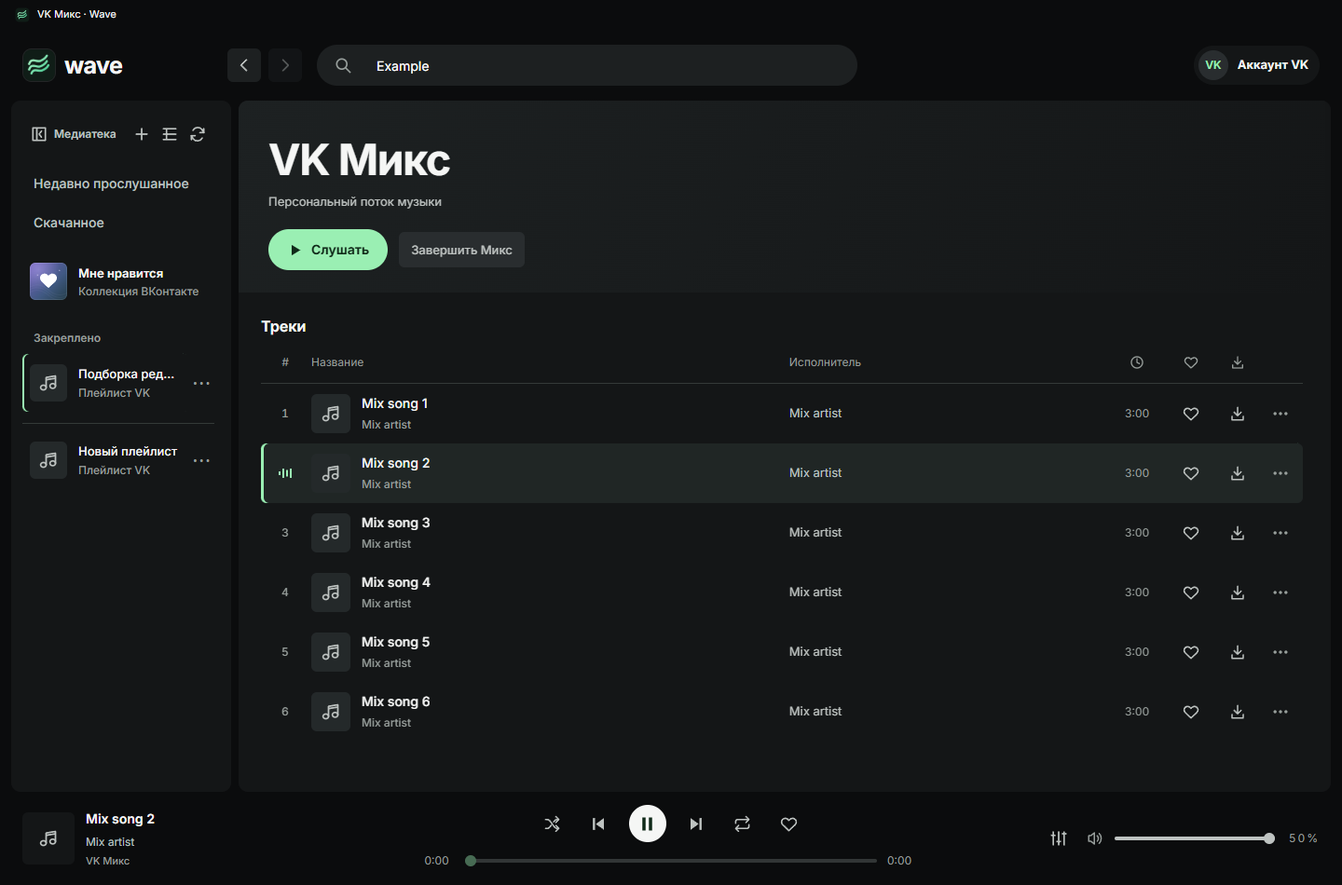
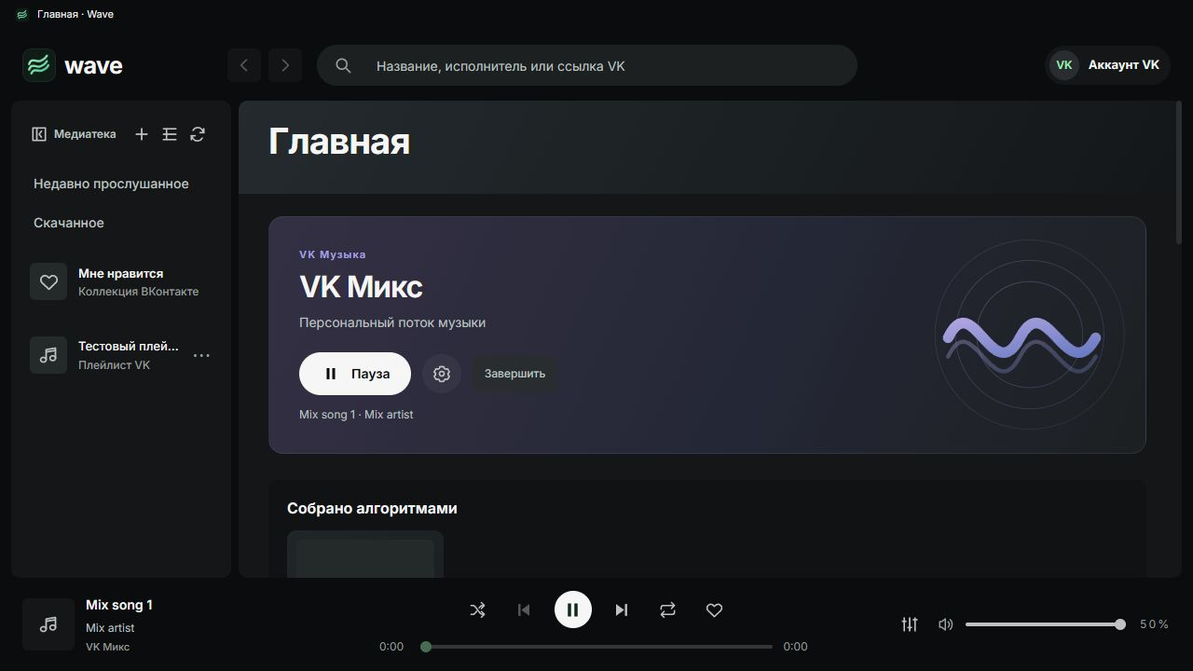
Prepare Alpha 2 with hidden live Mix, home card and server options

diff --git a/src/renderer/mix-ui.js b/src/renderer/mix-ui.js
@@ -1,20 +1,22 @@
 'use strict';
 (()=>{
  if(!has('mix'))return;
- const route={type:'mix',id:'common',title:'VK Микс'};
- const home=el('section','mix-home hidden'),title=el('h2','','VK Микс'),copy=el('p','muted','Персональный поток музыки из VK'),start=el('button','primary','Слушать');start.type='button';start.id='mix-start';home.append(title,copy,start);$('home-panels').before(home);
- const actions=el('div','mix-actions hidden'),status=el('p','muted'),retry=el('button','secondary hidden','Продолжить Микс'),stop=el('button','secondary','Завершить Микс');actions.id='mix-actions';status.setAttribute('role','status');retry.type=stop.type='button';stop.id='mix-stop';actions.append(status,retry,stop);document.querySelector('.hero-bottom').append(actions);
- const source=el('button','mix-source hidden','VK Микс');source.type='button';source.title='Открыть VK Микс';$('now-title').parentElement.append(source);source.onclick=()=>navigate(route).catch(fail);
- let job=null,lastPrefetch='',error='',opening=false,checkedKey='',checkedLoop;
- function render(){const on=state.route.type==='mix',active=!!state.playContext?.mixId;home.classList.toggle('hidden',state.route.type!=='home');actions.classList.toggle('hidden',!on);source.classList.toggle('hidden',!active);document.body.classList.toggle('mix-page',on);start.disabled=!state.online||opening;stop.disabled=!!state.mixStopped;stop.textContent=state.mixStopped?'Микс завершён':'Завершить Микс';retry.classList.toggle('hidden',!error||!on);retry.disabled=!!job||!state.online;setText(status,error||((state.loading||job)?'Загружаем музыку…':state.mixStopped?'':!state.partial&&state.allTracks.length?'Продолжение пока не найдено.':''));status.classList.toggle('hidden',!status.textContent);actions.setAttribute('aria-busy',String(!!job||state.loading));if(state.playing&&!state.busy)afterPlay();}
- async function open(){if(opening)return;opening=true;job=null;lastPrefetch='';checkedKey='';error='';render();try{await navigate({...route},true);if(state.route.type!=='mix'||!state.mixId)return;await playSelection(0);}finally{opening=false;render();}}
- start.onclick=()=>open().catch(fail);
- async function stopMix(){const id=state.mixId||state.playContext?.mixId;lastPrefetch='';error='';const result=await call('mix',{action:'stop',...(!state.loading&&id?{id}:{})});if(state.playContext?.mixId){state.playContext.cacheState='complete';state.pendingNext=false;if(state.playing)await toggle();state.playContext.mixId=null;state.playContext.source=undefined;}if(state.route.type==='mix'){state.mixStopped=true;state.partial=false;state.cacheState='complete';}render();controls();}
+ const home=el('section','mix-home'),art=el('img','mix-home-art'),body=el('div','mix-home-copy'),eyebrow=el('p','mix-eyebrow','VK Музыка'),title=el('h2','','VK Микс'),copy=el('p','mix-home-description','Персональный поток музыки'),actions=el('div','mix-home-actions'),start=el('button','mix-launch'),startIcon=el('span'),startLabel=el('span','','Включить Микс'),settingsButton=el('button','icon mix-settings-button'),stop=el('button','mix-stop secondary','Завершить'),status=el('p','mix-home-status'),current=el('p','mix-home-current');
+ home.id='mix-home';home.setAttribute('aria-labelledby','mix-home-title');title.id='mix-home-title';art.src='mix-mark.svg';art.alt='';art.setAttribute('aria-hidden','true');start.type=settingsButton.type=stop.type='button';start.id='mix-start';start.append(startIcon,startLabel);settingsButton.id='mix-settings-open';settingsButton.title='Настроить VK Микс';settingsButton.setAttribute('aria-label',settingsButton.title);settingsButton.setAttribute('aria-haspopup','dialog');setIcon(settingsButton,'settings');stop.id='mix-stop';actions.append(start,settingsButton,stop);status.setAttribute('role','status');body.append(eyebrow,title,copy,actions,current,status);home.append(body,art);
+ const source=el('button','mix-source hidden','VK Микс');source.type='button';source.title='Открыть управление Миксом';$('now-title').parentElement.append(source);source.onclick=async()=>{await navigate({type:'home'});home.scrollIntoView({block:'nearest',behavior:'instant'});start.focus({preventScroll:true});};
+ const popup=el('div','library-popover mix-settings'),popupTitle=el('h3','','Настройки Микса'),popupStatus=el('p','muted'),groups=el('div','mix-setting-groups'),buttons=el('div','mix-setting-buttons'),reset=el('button','secondary','Сбросить'),apply=el('button','primary','Применить');popup.id='mix-settings';popup.setAttribute('popover','auto');popup.setAttribute('role','dialog');popup.setAttribute('aria-labelledby','mix-settings-title');popupTitle.id='mix-settings-title';reset.type=apply.type='button';popupStatus.setAttribute('role','status');buttons.append(reset,apply);popup.append(popupTitle,popupStatus,groups,buttons);document.body.append(popup);
+ const artistButton=el('button','secondary hidden','Микс по исполнителю');artistButton.type='button';artistButton.id='artist-mix';document.querySelector('.hero-bottom').append(artistButton);artistButton.onclick=()=>open({seed:{type:'artist',...(state.route.artistEntity?{entityId:state.route.id}:{trackId:state.route.id,artistIndex:state.route.artistIndex||0})},options:{}}).catch(fail);
+ let job=null,lastPrefetch='',error='',opening=false,checkedKey='',checkedLoop,epoch=0,configuration,selection={},draft={},settingsEpoch=0;
+ function render(){artistButton.classList.toggle('hidden',state.route.type!=='artist');artistButton.disabled=!state.online||state.loading||opening;const active=!!state.playContext?.mixId;document.body.classList.toggle('mix-live',active);source.classList.toggle('hidden',!active);source.textContent=state.playContext?.source||'VK Микс';start.disabled=!state.online||opening;start.setAttribute('aria-busy',String(opening));setText(startLabel,opening?'Подключаем…':active?(state.playing?'Пауза':'Продолжить'):'Включить Микс');setIcon(startIcon,active&&state.playing?'pause':'play');stop.classList.toggle('hidden',!active&&!opening);stop.disabled=!active&&!opening;settingsButton.disabled=!state.online||opening;home.classList.toggle('is-playing',active&&state.playing);setText(current,active?state.current?.title+' · '+state.current?.artist:'');setText(status,error);status.classList.toggle('hidden',!status.textContent);if(state.route.type==='home'&&home.parentElement!==$('home-panels'))$('home-panels').prepend(home);if(state.playing&&!state.busy)afterPlay();}
+ async function open({seed,options=selection}={}){const ticket=++epoch,generation=state.generation;opening=true;job=null;lastPrefetch='';checkedKey='';error='';render();try{const result=await call('mix',{action:'open',restart:true,...(seed?{seed}:{}),...(!seed&&Object.keys(options).length?{options}:{})});if(ticket!==epoch||generation!==state.generation)return;if(!result.tracks?.length)throw Error('VK пока не нашёл музыку для этого Микса');const loop=result.tracks.map((t,i)=>({...t,contextOrder:i})),ctx={mixId:result.mixId,mixSeed:seed,source:result.source||'VK Микс',cacheState:result.partial?'loading':'complete',filter:'',sort:'original',routeKey:'mix-live'};await playTrack(loop[0],{loop,playContext:ctx});}catch(e){if(ticket===epoch&&e.kind!=='cancelled'){error=e.message||'Не удалось включить Микс';render();throw e;}}finally{if(ticket===epoch){opening=false;render();}}}
+ start.onclick=()=>{if(state.playContext?.mixId)return toggle().catch(fail);open().catch(fail);};
+ async function stopMix(){epoch++;opening=false;lastPrefetch='';error='';const ctx=state.playContext;await call('mix',{action:'stop'});if(ctx?.mixId&&state.playContext===ctx){ctx.cacheState='complete';state.pendingNext=false;if(state.playing)await toggle();ctx.mixId=null;ctx.source=undefined;}render();controls();}
  stop.onclick=()=>stopMix().catch(fail);
- async function more(ctx=state.playContext){if(!ctx?.mixId||!state.online||ctx.cacheState==='complete')return;if(job)return job;const id=ctx.mixId;error='';ctx.advancing=true;
-  const task=(async()=>{try{let result;for(let tries=0;tries<3;tries++){result=await call('mix',{action:'more',id,currentId:state.current?.id});if(state.playContext!==ctx||ctx.mixId!==id)return;if(result.tracks.some(t=>!state.loop.some(old=>old.id===t.id))||!result.partial)break;}if(state.playContext!==ctx)return;const pending=state.pendingNext;state.pendingNext=false;updatePlaybackCache(result);if(state.route.type==='mix'&&state.mixId===id){state.allTracks=result.tracks;state.partial=result.partial;trackList();}state.history=state.history.slice(-60);if(pending)await next(state.pendingNextEnded);}catch(e){if(state.playContext===ctx){state.pendingNext=false;if(e.kind!=='cancelled'){error='Не удалось загрузить продолжение. Попробуйте ещё раз.';window.WaveToast?.show?.(error);}}}finally{ctx.advancing=false;if(job===task)job=null;render();controls();}})();job=task;render();return task;
- }
- retry.onclick=()=>{lastPrefetch='';checkedKey='';more().catch(fail);};
+ async function more(ctx=state.playContext){if(!ctx?.mixId||!state.online||ctx.cacheState==='complete')return;if(job)return job;const id=ctx.mixId;error='';ctx.advancing=true;const task=(async()=>{try{let result;for(let tries=0;tries<3;tries++){result=await call('mix',{action:'more',id,currentId:state.current?.id});if(state.playContext!==ctx||ctx.mixId!==id)return;if(result.tracks.some(t=>!state.loop.some(old=>old.id===t.id))||!result.partial)break;}if(state.playContext!==ctx)return;const pending=state.pendingNext;state.pendingNext=false;updatePlaybackCache(result);state.history=state.history.slice(-60);if(pending)await next(state.pendingNextEnded);}catch(e){if(state.playContext===ctx){state.pendingNext=false;if(e.kind!=='cancelled'){error='Продолжение недоступно. Нажмите «Далее», чтобы повторить.';window.WaveToast?.show?.(error);}}}finally{ctx.advancing=false;if(job===task)job=null;render();controls();}})();job=task;render();return task;}
  function afterPlay(){const ctx=state.playContext;if(!ctx?.mixId||!state.online||ctx.cacheState==='complete')return;const key=ctx.mixId+':'+state.current?.id;if(checkedKey===key&&checkedLoop===state.loop)return;checkedKey=key;checkedLoop=state.loop;const at=state.loop.findIndex(t=>t.id===state.current?.id),ahead=state.loop.slice(at+1).filter(playableNow).length;if(ahead<=1&&lastPrefetch!==key){lastPrefetch=key;queueMicrotask(()=>more(ctx));}}
- window.WaveMix={render,more,afterPlay,start:open,header(){if(state.route.type!=='mix')return false;heroCover();renderAlbums();setText($('heading'),'VK Микс');setText($('eyebrow'),'');setText($('subtitle'),'Персональный поток музыки');setText($('list-heading'),'Треки');playlists();render();return true;}};render();
+ function drawSettings(){groups.replaceChildren();for(const category of configuration?.categories||[]){const section=el('section','mix-setting-group'),heading=el('h4','',category.title),items=el('div','mix-setting-options');items.setAttribute('role','group');items.setAttribute('aria-label',category.title);section.append(heading,items);for(const option of category.options){const button=el('button','mix-setting-option',option.title);button.type='button';button.setAttribute('aria-pressed',String(draft[category.id]===option.id));button.onclick=()=>{if(draft[category.id]===option.id)delete draft[category.id];else draft[category.id]=option.id;for(const b of items.children)b.setAttribute('aria-pressed',String(b===button&&draft[category.id]===option.id));};items.append(button);}groups.append(section);}apply.disabled=!configuration?.categories?.length;}
+ function position(){const a=settingsButton.getBoundingClientRect(),r=popup.getBoundingClientRect();popup.style.inset='auto';popup.style.left=Math.max(12,Math.min(innerWidth-r.width-12,a.right-r.width))+'px';popup.style.top=Math.max(12,Math.min(innerHeight-r.height-12,a.bottom+8))+'px';}
+ settingsButton.onclick=async()=>{const ticket=++settingsEpoch;draft={...selection};popup.showPopover();settingsButton.setAttribute('aria-expanded','true');setText(popupStatus,'Загружаем настройки…');drawSettings();position();try{configuration=await call('mix',{action:'settings'});if(ticket!==settingsEpoch||!popup.matches(':popover-open'))return;setText(popupStatus,configuration.categories.length?'':'VK не предоставил настройки');drawSettings();position();groups.querySelector('button')?.focus({preventScroll:true});}catch(e){setText(popupStatus,'Не удалось загрузить настройки. Откройте их ещё раз.');}};
+ popup.addEventListener('toggle',e=>{if(e.newState==='closed'){settingsEpoch++;settingsButton.setAttribute('aria-expanded','false');}});popup.addEventListener('keydown',e=>{if(e.key==='Escape'){e.preventDefault();popup.hidePopover();settingsButton.focus();}});reset.onclick=()=>{draft={};drawSettings();};apply.onclick=()=>{selection={...draft};popup.hidePopover();start.focus({preventScroll:true});open({options:selection}).catch(fail);};
+ window.WaveMix={homeNode:home,render,more,afterPlay,start:open,track:id=>open({seed:{type:'track',trackId:id},options:{}}),artist:(trackId,artistIndex=0,entityId)=>open({seed:{type:'artist',...(entityId?{entityId}:{trackId,artistIndex})},options:{}}),header:()=>false};render();
 })();

diff --git a/src/renderer/mix.css b/src/renderer/mix.css
@@ -1,6 +1,7 @@
-.mix-home{display:grid;grid-template-columns:1fr auto;column-gap:24px;row-gap:8px;padding:24px 28px;margin:0 24px 24px;border-radius:12px;background:linear-gradient(115deg,var(--bg-raised),var(--bg-surface));border:1px solid var(--border-subtle)}
-.mix-home h2{margin:0}.mix-home p{margin:0}.mix-home .primary{grid-column:2;grid-row:1/3;align-self:center}.mix-actions{display:flex;align-items:center;gap:12px;flex-wrap:wrap}.mix-actions p{margin:0;max-width:48ch}.mix-source{display:block;border:0;background:none;padding:2px 0;font-size:11px;color:var(--text-muted);text-align:left}.mix-source:hover{color:var(--text-primary)}
-.mix-page .list-tools,.mix-page #personal-pin,.mix-page #copy-list-link,.mix-page #rename-list{display:none!important}.mix-page .hero{background:linear-gradient(120deg,var(--bg-hero),var(--bg-surface))}.mix-page .hero-bottom{flex-wrap:wrap}
-@media(max-width:650px){.mix-home{margin-inline:12px;padding:20px}.mix-actions{align-items:flex-start}.mix-actions p{flex-basis:100%}}
-@media(prefers-reduced-motion:no-preference){.mix-home .primary:not(:disabled){transition:transform 150ms ease-out}.mix-home .primary:not(:disabled):active{transform:scale(.96)}}
-@media(forced-colors:active){.mix-home,.mix-page .hero{background:Canvas}.mix-home{border:1px solid CanvasText}}
+.mix-home{--mix-tone:#a9a0e5;position:relative;isolation:isolate;overflow:hidden;display:flex;align-items:center;min-width:0;min-height:232px;margin:0;padding:32px;border-radius:16px;background:linear-gradient(115deg,#343044 0%,#242735 58%,var(--bg-raised) 100%);border:1px solid #c1b1ff19}
+.mix-home-copy{position:relative;z-index:1;min-width:0;max-width:72%;flex:1}.mix-eyebrow{color:var(--mix-tone);font-size:11px;font-weight:650;letter-spacing:.1em;margin:0 0 8px}.mix-home h2{font-size:32px;letter-spacing:-.035em;line-height:1.1;margin:0 0 10px}.mix-home-description{color:var(--text-secondary);margin:0}.mix-home-actions{display:flex;align-items:center;flex-wrap:wrap;gap:12px;margin-top:22px}.mix-launch{display:inline-flex;align-items:center;justify-content:center;gap:10px;min-height:46px;border:0;border-radius:24px;padding:0 22px;background:var(--text-primary);color:var(--bg-page);font-weight:650;font-size:14px;cursor:pointer}.mix-launch .wave-icon{width:18px;height:18px}.mix-launch:disabled{opacity:.55;cursor:default}.mix-settings-button{background:#ffffff0b;border-radius:50%;width:42px;height:42px;flex:none}.mix-settings-button:hover{background:#ffffff16}.mix-stop{font-size:12px}.mix-home-art{border:0;outline:0;box-shadow:none;border-radius:0;position:absolute;z-index:0;pointer-events:none;inset-inline-end:0;top:50%;width:280px;height:245px;transform:translateY(-50%);opacity:.85}.mix-home-current{min-height:18px;margin:12px 0 0;color:var(--text-secondary);font-size:12px;overflow:hidden;text-overflow:ellipsis;white-space:nowrap;max-width:50ch}.mix-home-status{margin:12px 0 0;color:var(--text-muted);font-size:12px;max-width:45ch}.mix-source{max-width:100%;overflow:hidden;text-overflow:ellipsis;white-space:nowrap;display:block;border:0;background:none;padding:2px 0;font-size:11px;color:var(--text-muted);text-align:start}.mix-source:hover{color:var(--text-primary)}
+.mix-settings{width:min(430px,calc(100vw - 24px));max-height:min(620px,calc(100vh - 32px));overflow:auto;padding:20px}.mix-settings h3{margin:0 0 16px}.mix-settings h4{margin:0 0 10px;font-size:12px;color:var(--text-secondary)}.mix-setting-groups{display:grid;gap:20px}.mix-setting-options{display:flex;flex-wrap:wrap;gap:8px}.mix-setting-option{border:1px solid var(--border-subtle);border-radius:20px;min-height:36px;background:var(--bg-input);color:var(--text-secondary);padding:6px 12px}.mix-setting-option[aria-pressed=true]{border-color:var(--text-accent);background:var(--bg-accent-soft);color:var(--text-primary)}.mix-setting-buttons{display:flex;justify-content:flex-end;gap:10px;margin-top:22px}.mix-settings p:empty{display:none}
+@media(max-width:850px){.mix-home{padding:24px}.mix-home-copy{max-width:80%}.mix-home-art{width:210px;inset-inline-end:-50px;opacity:.4}}@media(max-width:480px){.mix-home{min-height:220px;padding:22px 18px}.mix-home-copy{max-width:100%}.mix-home h2{font-size:28px}.mix-home-art{opacity:.18;inset-inline-end:-80px}.mix-launch{padding-inline:16px}.mix-home-actions{gap:8px}}
+@media(prefers-reduced-motion:no-preference){.mix-launch{transition:transform 150ms ease-out,background-color 150ms ease-out}.mix-launch:not(:disabled):active{transform:scale(.96)}.mix-setting-option{transition:background-color 120ms ease-out,border-color 120ms ease-out}}@media(forced-colors:active){.mix-home{background:Canvas;border:1px solid CanvasText}.mix-home-art{display:none}.mix-launch,.mix-setting-option{border:1px solid ButtonText;background:ButtonFace;color:ButtonText}.mix-setting-option[aria-pressed=true]{outline:2px solid Highlight}.mix-settings-button{background:ButtonFace}}
+
+.mix-stop.hidden{display:inline-block!important;visibility:hidden;pointer-events:none}

diff --git a/src/renderer/ui-polish.js b/src/renderer/ui-polish.js
@@ -8,6 +8,6 @@
  if(!document.getElementById('settings-dialog'))return;
  const section=document.createElement('section');section.className='shortcut-settings';section.innerHTML='<h3>Управление с клавиатуры</h3><p class="muted">Нажмите F1, чтобы открыть список сочетаний.</p><button id="shortcuts-open" class="secondary">Горячие клавиши</button>';document.querySelector('#settings-dialog .modal-card').append(section);
  const dialog=document.createElement('dialog');dialog.id='shortcuts-dialog';dialog.className='modal-overlay hidden';dialog.setAttribute('aria-labelledby','shortcuts-heading');dialog.innerHTML='<section class="modal-card"><div class="section-head"><h2 id="shortcuts-heading">Горячие клавиши</h2><button id="shortcuts-close" class="secondary">Закрыть</button></div><dl class="shortcuts-list"><div><dt>Поиск музыки</dt><dd><kbd>Ctrl</kbd> <kbd>K</kbd></dd></div><div><dt>Воспроизведение / пауза</dt><dd><kbd>Пробел</kbd></dd></div><div><dt>Назад / вперёд</dt><dd><kbd>Alt</kbd> <kbd>←</kbd> / <kbd>→</kbd></dd></div><div><dt>Переход между песнями списка</dt><dd><kbd>↑</kbd> <kbd>↓</kbd></dd></div><div><dt>Начало / конец списка</dt><dd><kbd>Home</kbd> <kbd>End</kbd></dd></div><div><dt>Закрыть окно</dt><dd><kbd>Esc</kbd></dd></div></dl><p class="muted">Пробел ставит музыку на паузу и продолжает её после клика мышью. При навигации через Tab он нажимает выбранную кнопку. В полях ввода и на ползунках сохраняется обычное поведение клавиатуры. Ctrl+K работает также в русской раскладке и закрывает справку, настройки или развёрнутый плеер перед переходом в поиск. Левый Shift + левая кнопка мыши добавляет песню в выделение или снимает его. Ctrl+A выбирает все песни текущего списка, кроме поля ввода. Ctrl+Space переключает выделение песни с клавиатуры, Shift+F10 открывает меню выбранных, Escape снимает выделение. В «Скачанном» выделение отключено. Стрелки, Home и End работают при фокусе на названии или кнопке запуска песни. Боковые кнопки мыши — назад и вперёд. Мультимедийные клавиши работают через Windows.</p></section>';document.body.append(dialog);
- const about=document.createElement('footer');about.className='settings-about';about.innerHTML='<span>Wave</span><span id="settings-version">Версия 1.2.0-alpha.1</span>';document.querySelector('#settings-dialog .modal-card').append(about);
+ const about=document.createElement('footer');about.className='settings-about';about.innerHTML='<span>Wave</span><span id="settings-version">Версия 1.2.0-alpha.2</span>';document.querySelector('#settings-dialog .modal-card').append(about);
  document.getElementById('shortcuts-open').onclick=()=>dialog.classList.remove('hidden');document.getElementById('shortcuts-close').onclick=()=>dialog.classList.add('hidden');
 })();

diff --git a/src/renderer/app.js b/src/renderer/app.js
@@ -227,6 +227,7 @@ function saveView(){window.WaveArtistUI?.remember();if(!state.ready||state.loadi
 function navigationButtons(){$('nav-back').disabled=navigation.index<=0;$('nav-forward').disabled=navigation.index<0||navigation.index>=navigation.entries.length-1;}
 function navigationReset(){navigation.entries=[];navigation.index=-1;navigation.views.clear();navigation.snapshots.clear();persistViews();state.filter='';state.sort='original';state.albums=[];state.contributions=[];navigationButtons();}
 async function navigate(route,refresh=false,preserve=false,traveling=false){
+ if(route.type==='mix')route={type:'home'};
  window.WavePlaylistControls?.resetSearch();window.WaveMusicLinks?.cancel();
  if(!state.ready)return loadRoute(route,refresh,preserve);
  saveView();const key=routeKey(route),saved=navigation.views.get(key),snapshot=navigation.snapshots.get(key);
@@ -328,7 +329,7 @@ function trackActions(track,anchor){
  if(window.WaveCollection?.menu(track,anchor))return;
  const root=window.WaveRowMenu?window.WaveRowMenu.open(track,anchor):(collectionDialog(track.title),$('collection-options'));const action=(label,fn)=>{const b=el('button','collection-action',label);b.type='button';b.setAttribute('role','menuitem');b.onclick=()=>{window.WaveRowMenu?.close();fn();};root.append(b);};
  const remove=(title,help,action,command)=>{collectionDialog(title);$('collection-help').textContent=help;$('collection-confirm').classList.toggle('hidden',false);$('collection-confirm').classList.toggle('danger-action',true);$('collection-confirm').textContent=action;$('collection-confirm').onclick=()=>synchronise(command);};
- action('Скопировать ссылку',()=>window.WaveMusicLinks?.copy('track',track.id));
+ action('Скопировать ссылку',()=>window.WaveMusicLinks?.copy('track',track.id));if(window.WaveMix){action('Микс по песне',()=>WaveMix.track(track.id).catch(fail));if(track.artistRoute?.includes('/artist/'))action('Микс по исполнителю',()=>WaveMix.artist(track.id).catch(fail));}
  action('Добавить в плейлист…',()=>addToPlaylist(track));
  if(ownPlaylist()){action('Удалить из этого плейлиста',()=>remove('Удалить песню из плейлиста?','«'+track.title+'» будет удалена только из этого плейлиста.','Удалить из плейлиста',{action:'remove',playlistId:state.route.id,trackId:track.id}));
   if(state.cacheState==='complete'&&!state.filter&&(!state.sort||state.sort==='original'))action('Переместить на позицию…',()=>{const tracks=state.allTracks.slice(),id=state.route.id;collectionForm('Порядок песен','Позиция от 1 до '+tracks.length,String(tracks.findIndex(t=>t.id===track.id)+1),value=>{const index=Number(value)-1;if(!Number.isInteger(index)||index<0||index>=tracks.length){$('collection-help').textContent='Введите целую позицию от 1 до '+tracks.length;return;}const others=tracks.filter(t=>t.id!==track.id);synchronise({action:'move',playlistId:id,trackId:track.id,beforeTrackId:others[index]?.id||null});},{number:true,max:tracks.length});});

diff --git a/src/renderer/home-feed-ui.js b/src/renderer/home-feed-ui.js
@@ -7,7 +7,7 @@
   root.setAttribute('aria-busy',String(feed.state==='loading'||!!feed.refreshing));
   setText(view.status,feed.state==='loading'?'Загружаем подборки VK…':feed.stale?'Не удалось обновить. Показаны сохранённые подборки.':feed.state==='ready'&&feed.partial?'Часть подборок VK сейчас недоступна':feed.state==='unavailable'?(state.online?(feed.reason==='empty'?'Подборки VK пока не найдены.':feed.reason==='schema'?'Не удалось прочитать подборки VK.':'Не удалось загрузить подборки VK.'):'Подключитесь к сети, чтобы загрузить подборки VK'):'');
   view.status.classList.toggle('hidden',!view.status.textContent);view.retry.classList.toggle('hidden',!state.online||!(feed.state==='unavailable'||feed.partial||feed.stale));view.retry.disabled=!!feed.refreshing;view.retry.setAttribute('aria-busy',String(!!feed.refreshing));view.retry.onclick=retry;
-  const desired=[view.status,view.retry],alive=new Set(),active=document.activeElement;
+  const desired=[...(window.WaveMix?.homeNode?[WaveMix.homeNode]:[]),view.status,view.retry],alive=new Set(),active=document.activeElement;
   for(const section of sections){if(!section.items?.length)continue;alive.add(section.id);let group=view.groups.get(section.id);
    if(!group){group={node:el('section','recommendation-section'),heading:el('h2'),grid:el('div','home-grid'),cards:new Map(),data:{},fresh:true};group.node.dataset.feed=section.id;group.node.append(group.heading,group.grid);view.groups.set(section.id,group);}
    Object.assign(group.data,section);setText(group.heading,section.title);const cards=[],items=new Set();

diff --git a/src/renderer/collection-tools.js b/src/renderer/collection-tools.js
@@ -45,7 +45,7 @@
   const root=window.WaveRowMenu.open(track,anchor),ids=selection.ids(inView()),blocked=!state.online||state.collectionBusy||!!phase;
   const caption=el('p','selection-menu-caption','Выбрано: '+ids.length+(state.partial||state.cacheState==='loading'?' · загруженные песни':''));root.append(caption);
   const action=(label,fn,disabled=false)=>{const b=el('button','collection-action',label);b.type='button';b.setAttribute('role','menuitem');b.disabled=disabled;b.onclick=()=>{window.WaveRowMenu.close();try{Promise.resolve(fn()).catch(fail);}catch(e){fail(e);}};root.append(b);};
-  if(ids.length===1)action('Скопировать ссылку',()=>window.WaveMusicLinks?.copy('track',ids[0]));
+  if(ids.length===1)action('Скопировать ссылку',()=>window.WaveMusicLinks?.copy('track',ids[0]));if(ids.length===1&&window.WaveMix)action('Микс по песне',()=>WaveMix.track(ids[0]),blocked);
   action('В «Мне нравится»',()=>prepare({action:'like',trackIds:ids}),blocked);
   action('Добавить в плейлист…',()=>add(),blocked);
   action('Скачать',()=>window.WavePersonal.download(ids),blocked||!window.WavePersonal);

diff --git a/docs/VK-MIX.md b/docs/VK-MIX.md
@@ -1,4 +1,4 @@
-# VK Микс ·1.2.0-alpha.1
+# VK Микс ·1.2.0-alpha.2
 
 27 октября2026. Первый этап1.2: настоящий common-поток, отмена и ограниченный буфер. Это предварительный выпуск; настройки/seed/feedback не объявляются реализованными.
 
@@ -28,3 +28,15 @@ REA заново разобрал c7995f35.54855bb3.js: parent ev_52ef73d0a01eda
 Встроенная проверка получает только GitHub Latest Stable. Поэтому Alpha публикуется как prerelease с установщиком, подписанной дельтой от1.1.9.9 и суммами; каталог Stable и его runtime-пакеты не заменяются. Именованный файл можно выбрать вручную в настройках. Исходный packager пытался выпустить Stable-only OTA-каталог для prerelease; проверка формата отклонила его до публикации. Исправлен только внешний маршрут упаковки preview, приложение повторно не собиралось и Stable-валидатор не ослаблялся. При следующем Stable каталог должен сохранять stable-only версии/рёбра для старых клиентов; выход из Alpha обеспечивается совместимым runtime-пакетом, а не добавлением alpha-рёбер в старую схему.
 
 ![Страница Микса с демонстрационными треками](images/mix-alpha.png)
+
+## Alpha2 · скрытый поток и управление
+
+По уточнению владельца видимый список Микса удалён. mix-ui.js больше не переходит к route mix и не пишет порции в state.allTracks. Результат open используется только для внутреннего playContext/loop; more меняет только этот буфер. Старый маршрут mix перенаправляется на главную. Карточка входит в desired узлы HomeFeed, а не вставляется отдельным sibling рядом с шапкой: место в сетке и gap24px стабильны. Место текущей песни зарезервировано, чтобы её появление не меняло прокрутку. SVG-волна статична; будущие песни не попадают в DOM.
+
+mix-config.cjs нормализует только серверные категории/варианты; значения пользователя проверяются по ним. Параметр options соответствует найденному SDK: числовой id и массив из одного значения для каждой выбранной категории. Сброс — отсутствие options, без отдельной серверной записи. Настройки действуют в текущем запуске, их сохранение между перезапусками не обещается. Seed разрешается только из зарегистрированной песни/artist entity; renderer не передаёт произвольный native id. Источник track_mix получает owner_id_audio_id, artist_mix — идентификатор проверенного artist route.
+
+Пользователь разрешил ещё три read-only проверки на своём сеансе, но новый процесс Electron остановился из-за sandbox/ACL/crypto среды до запросов VK. Эти проверки не пройдены. Обычный Wave возвращён через Computer Use. Подтверждение common/settings из Alpha1 сохраняется; настройки с options и seed в Alpha2 остаются экспериментальными до натурного запуска. Новых аналитических/feedback-записей нет.
+
+Локальные Node-проверки:435 passed. Браузерный стенд на тех же renderer и fixture подтвердил запуск, применение настроек, смену песни и скрытую очередь. Gap карточки от шапки24px; scrollTop до/после запуска41/41; будущий Mix song3 отсутствует в видимом DOM. Нативные Electron-гейты этой сессии не выполнены: Windows отклоняет запуск бинарника из node_modules по ACL. Авторизация gh в командном контексте также возвращает401 после сообщения пользователя об обновлении; причина различия контекстов не установлена. До устранения этих ограничений выпуск не считать опубликованным или установленным.
+
+Для завершения в обычном контексте владельца подготовлены work/finalize120a2.ps1 и install120a2.ps1 вне репозитория. Они не выполняются автоматически из ограниченной среды. Локальная поставка проверена по143 исходникам и77 файлам применения/отката; малый пакет296420байт.

diff --git a/releases/LATEST.md b/releases/LATEST.md
@@ -1,13 +1,11 @@
-# Wave 1.2.0-alpha.1
+# Wave 1.2.0-alpha.2
 
-Первое знакомство с VK Миксом в Wave.
+VK Микс стал живым потоком: нажмите кнопку и слушайте, без открытия плейлиста и просмотра будущих песен.
 
-- На главной появилась кнопка запуска персонального Микса. Песни приходят из VK, а не перемешиваются из готового плейлиста.
-- Новая музыка подгружается по мере прослушивания. Уже играющая песня и существующие строки остаются на месте.
-- В нижнем плеере виден источник «VK Микс» — нажмите, чтобы вернуться к потоку.
-- Песни Микса можно слушать, добавлять в «Мне нравится», скачивать и открывать для них альбом и текст обычными кнопками.
-- Микс можно завершить отдельной кнопкой. Ошибка продолжения не прерывает играющую песню; загрузку можно повторить.
+- На главной — отдельная карточка Микса с мягким градиентом, волной и управлением воспроизведением. Она занимает собственное место под шапкой.
+- Микс играет, пока вы просматриваете другую музыку. Дозагрузка не меняет открытый список, а кнопка источника в плеере возвращает к управлению на главной.
+- В настройках Микса можно выбирать настроение, узнаваемость и язык из вариантов, предоставленных VK, применять их или сбрасывать.
+- В действиях с песней появился запуск Микса по этой песне. Для исполнителей с доступной страницей VK есть Микс по исполнителю.
+- Пауза, продолжение и завершение доступны на карточке; обычные действия с текущей песней остаются в плеере.
 
-Это Alpha: пока доступен персональный Микс. Настройки Микса, запуск по песне или артисту и «Не рекомендовать» появятся на следующих этапах после проверки VK. Для получения новых порций нужен интернет; скачанная музыка продолжает работать отдельно.
-
-Вход, настройки и скачанные песни сохраняются. Стабильная ветка остаётся на1.1.9.9.
+Это предварительная версия. Получение персонального потока подтверждено ранее; новые источники и настройки проверены в изолированном стенде, но их работа на реальном сеансе VK ещё требует проверки. «Не рекомендовать» пока не добавлено. Стабильная ветка остаётся1.1.9.9.

diff --git a/docs/ROADMAP.md b/docs/ROADMAP.md
@@ -220,11 +220,13 @@
 
 ## 1.2.0 · VK Микс и открытие новой музыки
 
+**Alpha2 подготовлена локально:** скрытая живая очередь вместо страницы со списком, отдельная карточка главной, настройки по серверной конфигурации и экспериментальные seed по песне/артисту. Новые read-only проверки реального VK остановлены средой Windows до обращения к серверу; не объявлены пройденными.
+
 **Alpha1 опубликована и установлена:** персональный common-поток, дозагрузка, ручное завершение и ограниченный буфер. Read-only конфигурация и две реальные порции подтверждены. [Контракт и границы](VK-MIX.md). Настройки/seed/feedback остаются следующими этапами.
 
 Крупная цель — слушать персональный поток и находить похожую музыку, не выходя из Wave.
 
-- VK Микс как отдельный источник воспроизведения с дозагрузкой следующей порции, а не разовый список из нескольких песен.
+- VK Микс как отдельный источник воспроизведения с дозагрузкой следующей порции. Очередь скрыта: отдельной страницы/плейлиста с будущими песнями нет. Запуск и управление — в выделенной карточке главной, текущая песня — в обычном плеере.
 - «Микс по песне» и «Микс по исполнителю» из контекстного меню — для тех типов seed, которые подтверждены сервером.
 - Настройки жанра, настроения, новизны, инструментальной музыки и их совместимые сочетания — по конфигурации VK, без выдуманных локальных фильтров.
 - Отдельное «Не рекомендовать» с обратным действием, если серверный контракт подтверждён. Удаление сердечка остаётся удалением из коллекции и не выдаётся за обучение рекомендаций.

diff --git a/docs/VALIDATION.md b/docs/VALIDATION.md
@@ -1,6 +1,12 @@
 # Проверки Wave
 
-Версия: **1.2.0-alpha.1**. Дата: 27 октября 2026. Текущие результаты и границы проверки. Длительные прогоны и профилирование памяти не выполнялись.
+Версия в работе: **1.2.0-alpha.2**, установлена Alpha1. Дата: 27 октября 2026. Текущие результаты и границы проверки. Длительные прогоны и профилирование памяти не выполнялись.
+
+## 1.2.0-alpha.2 · Живая очередь и новая карточка
+
+435 Node-тестов прошли. Браузерный стенд: gap24px, scrollTop41→41 при запуске, очередь не видна, текущая песня меняется, настройки открываются и применяются. Новые fixture-сценарии для Electron подготовлены, но нативный запуск заблокирован ACL среды. Read-only VK диагностика seed/options не дошла до сети. Gh401 не позволяет считать публикацию выполненной. [Подробные границы](VK-MIX.md#alpha2--скрытый-поток-и-управление).
+
+Локальная Alpha2 собрана: FileVersion1.2.0.2, все143 source-файла совпали с ASAR. Подписанный пакет от точной Alpha1 —296420байт; применение и откат совпали по77 файлам (work/qa120a2-real-patch.json). Это не заменяет заблокированные нативные renderer-гейты. Подготовлен work/finalize120a2.ps1 для запуска владельцем в обычном Windows-контексте: сначала проверки, затем проверка GitHub CI, resumable draft и при указании -Install обычная установка; Latest не меняется. Скрипт и helper установки синтаксически проверены, но не выполнялись в рабочем пользовательском контексте.
 
 ## 1.2.0-alpha.1 · VK Микс
 

diff --git a/docs/CHANGELOG.md b/docs/CHANGELOG.md
@@ -1,5 +1,13 @@
 # Изменения
 
+## 1.2.0-alpha.2 · подготовлена локально
+
+- Скрытая живая очередь вместо страницы Микса.
+- Отдельная карточка главной без наложения на шапку, настройки в anchored popover.
+- Настройки по конфигурации VK и экспериментальные источники по песне/исполнителю.
+- Реальные seed/options и нативные гейты остаются непроверенными в текущей среде.
+
+
 ## 1.2.0-alpha.1
 
 - Персональный VK Микс с главной: настоящий common-поток, ограниченная дозагрузка и остановка.
